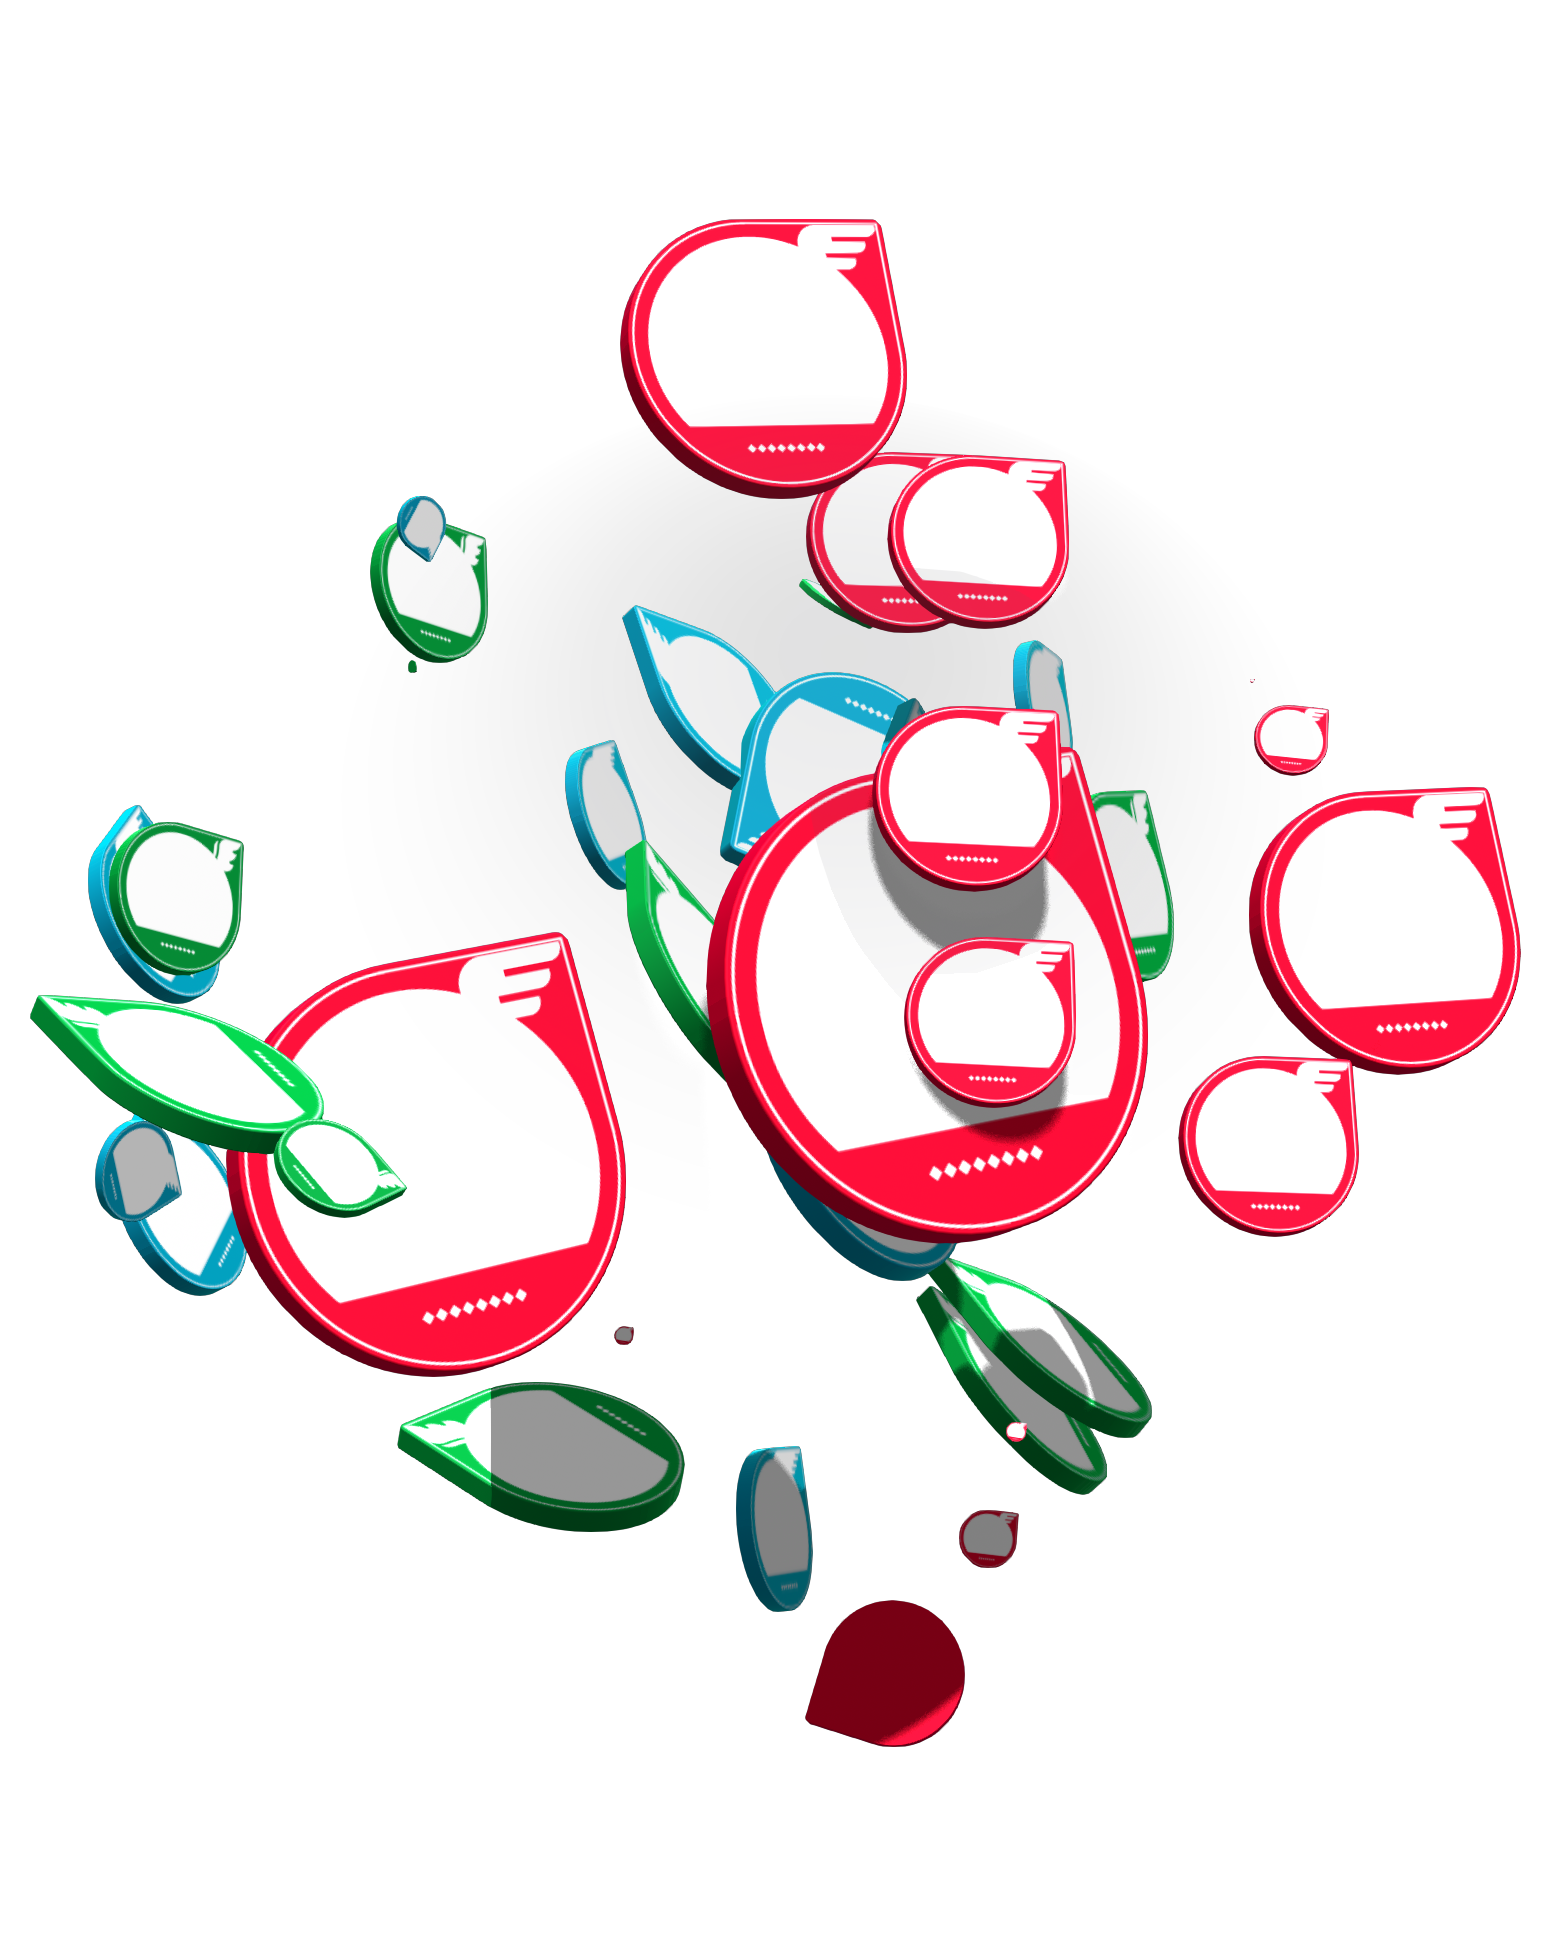
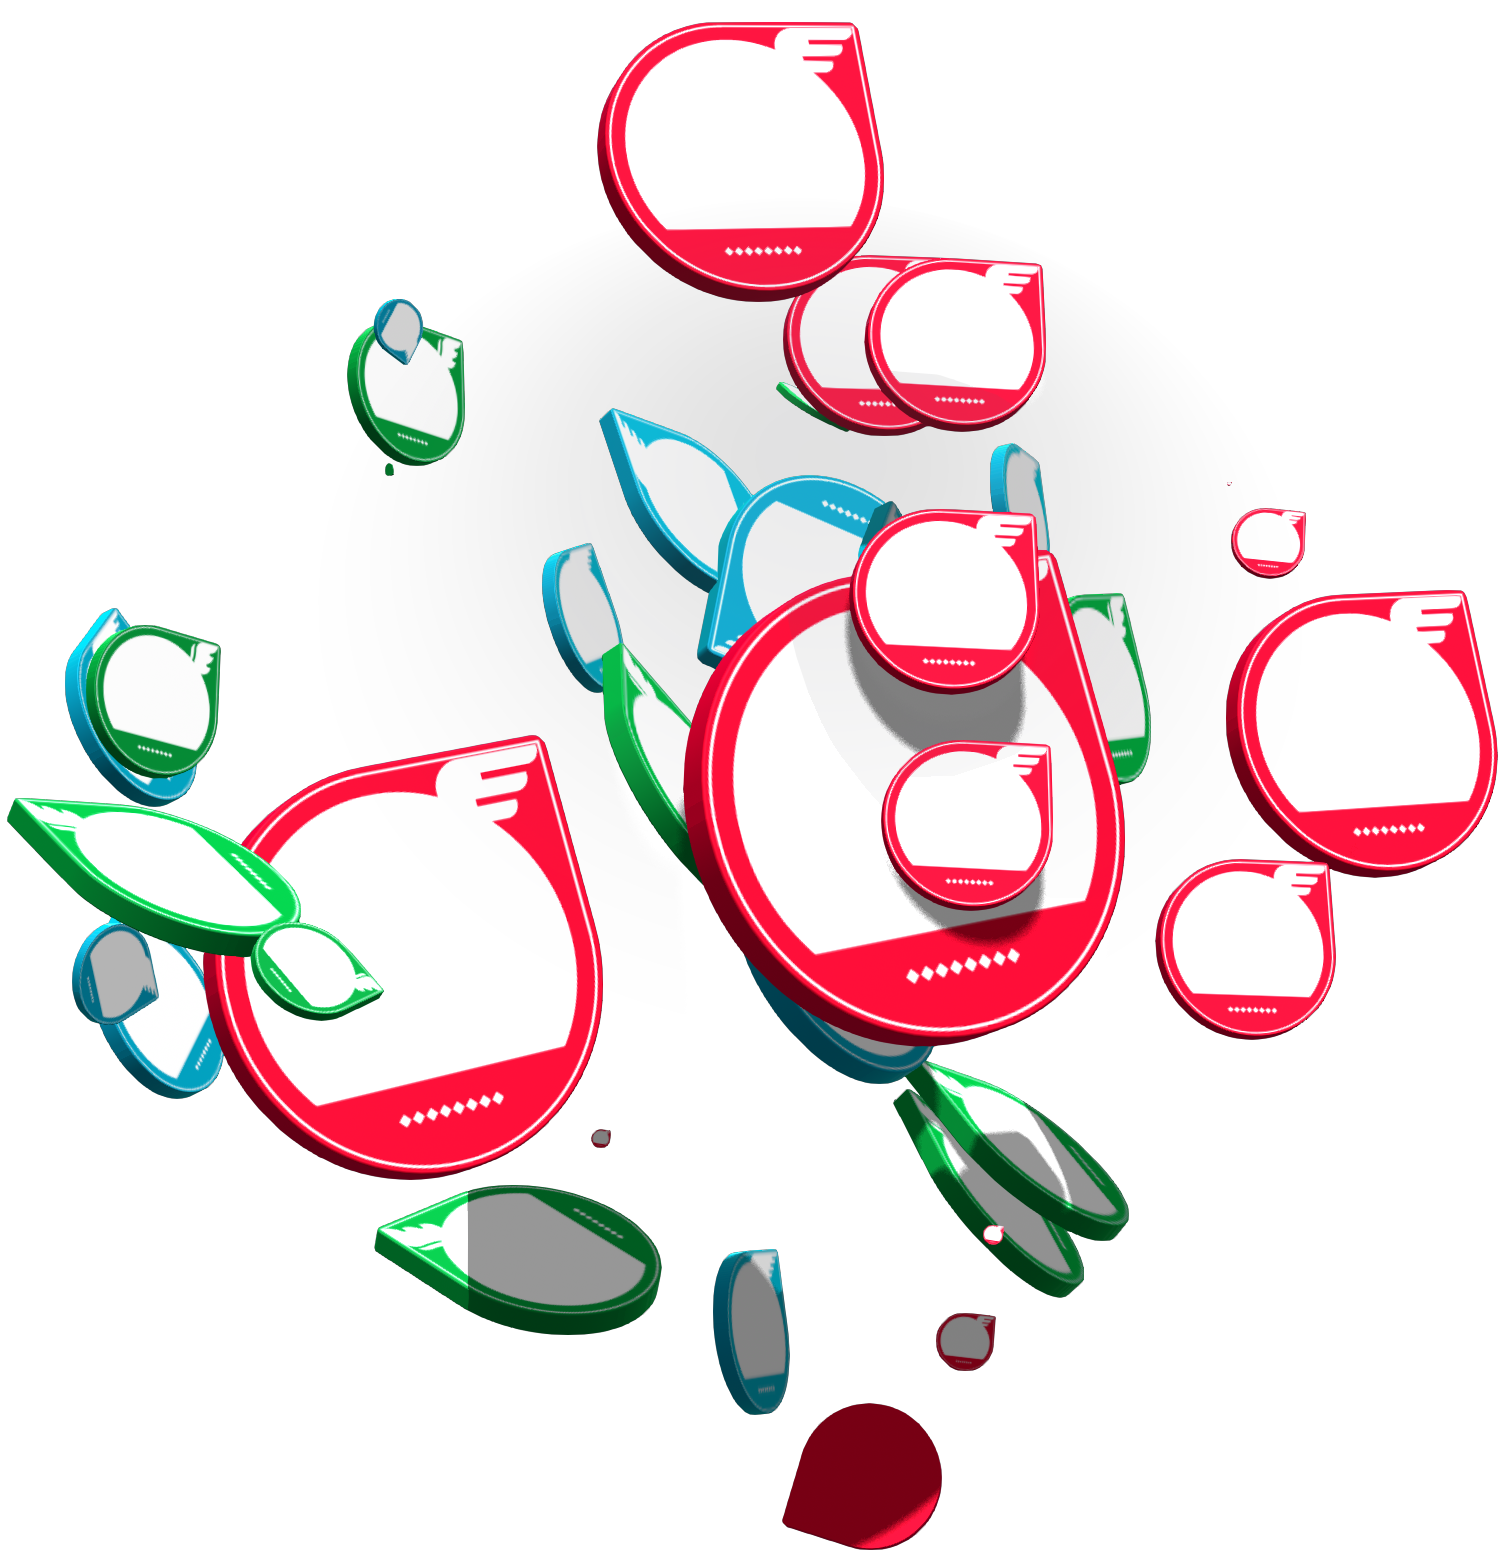
feat: 育成指標から探す-左右カラムで分けて文字にかぶらないように

Changed region(s): [[0.0, 0.0, 0.9987, 1.0], [0.2185, 0.1839, 0.3121, 0.3678]]

diff --git a/frontend/templates/Top.tsx b/frontend/templates/Top.tsx
@@ -290,12 +290,11 @@ export default function Top({
         </section>
         <section
           id="education-index"
-          className=" bg-primary-100 pb-28 relative before:bg-[url('/footer-bg.svg')] before:bg-no-repeat before:block
+          className=" pb-16 relative before:bg-[url('/footer-bg.svg')] before:bg-no-repeat before:block
           before:absolute before:-bottom-2 before:right-0 before:-z-1
-          before:w-[600px] before:h-[600px] before:bg-cover"
+          before:w-[600px] before:h-[600px] before:bg-cover flex flex-col lg:flex-row border border-t-gray-200"
         >
-          <div className="opacity-20 2xl:opacity-100 absolute h-full w-full bg-[url('/bg-search-index.png')] bg-cover lg:bg-[length:700px] bg-no-repeat md:bg-left bg-center"></div>
-          <div className="max-w-6xl px-4 md:pl-10 lg:pl-80 lg:pr-8 mx-auto pt-12 lg:pt-16 pb-8 relative z-10 ">
+          <div className="px-4 lg:px-16 pt-12 lg:pt-16 pb-8 relative z-10 ">
             <header className="mb-6">
               <h2 className="text-5xl notosansjp leading-tight font-bold mb-6 text-primary-700">
                 教員育成指標から探せる能力バッジ
@@ -355,6 +354,15 @@ export default function Top({
                 }
               </Fallback>
             </ul>
+          </div>
+          <div className="shrink-0 w-4/12 min-w-[300px] mx-auto lg:w-4/12 flex items-center justify-center">
+            <Image
+              src={"/bg-search-index.png"}
+              width={240}
+              height={240}
+              alt=""
+              className="w-full"
+            />
           </div>
         </section>
         <section id="other-contents" className="pb-16">
